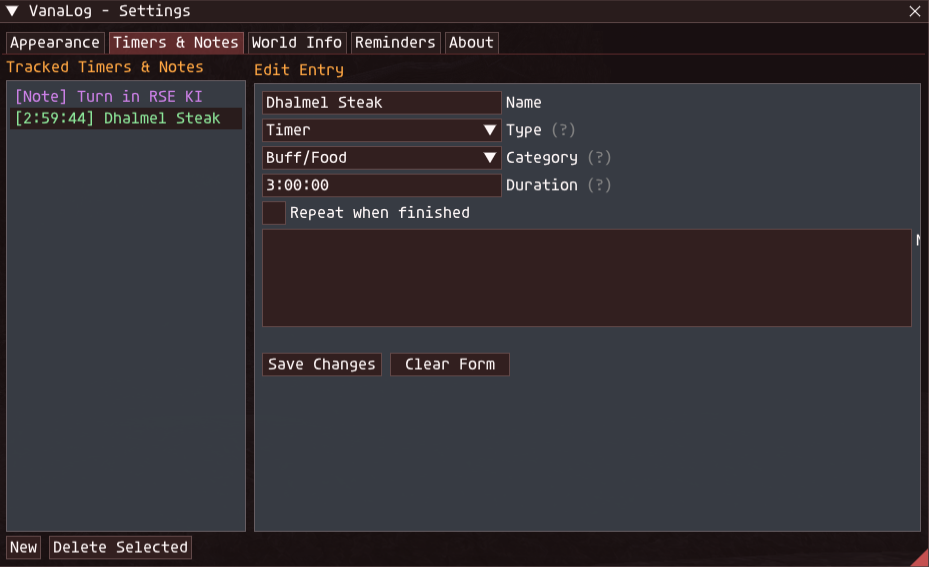
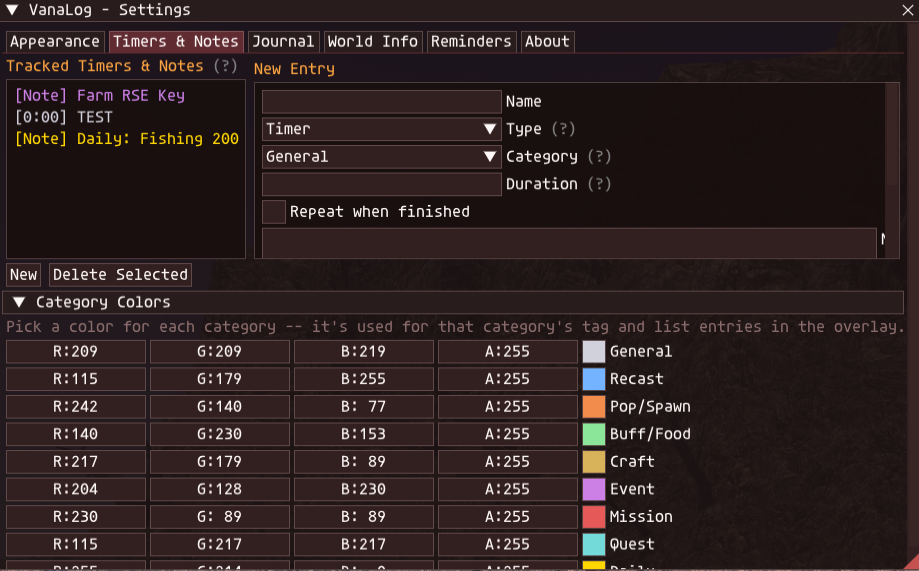
Update README screenshots for the v2.5 UI
- Replace the old 4-tab Settings and 4-tab Overlay screenshots with
  current ones: Settings gains a Journal tab and a split World Info
  pair (RSE/calendar, Guilds/Airships); Overlay now shows its 3 merged
  icon tabs (World, Notes, Timers & Reminders) instead of 4 text tabs.

diff --git a/README.md b/README.md
@@ -17,12 +17,16 @@ see [Credits](#credits) below.
 
 <table>
 <tr>
-<td><img src="screenshots/settings-appearance.png" width="420" alt="Appearance tab"><br><sub>Appearance -- theme presets, colors, alerts</sub></td>
-<td><img src="screenshots/settings-timers-notes.png" width="420" alt="Timers & Notes tab"><br><sub>Timers & Notes -- add/edit entries</sub></td>
+<td><img src="screenshots/settings-appearance.png" width="420" alt="Appearance tab"><br><sub>Appearance -- theme presets, colors, Low Profile Mode, Window Scale</sub></td>
+<td><img src="screenshots/settings-timers-notes.png" width="420" alt="Timers & Notes tab"><br><sub>Timers & Notes -- add/edit entries, category colors</sub></td>
 </tr>
 <tr>
-<td><img src="screenshots/settings-world-info.webp" width="420" alt="World Info tab"><br><sub>World Info -- clock, moon phase, RSE, day calendar</sub></td>
-<td><img src="screenshots/settings-reminders.webp" width="420" alt="Reminders tab"><br><sub>Reminders -- RSE, Day Change, Moon Phase alerts</sub></td>
+<td><img src="screenshots/settings-journal.png" width="420" alt="Journal tab"><br><sub>Journal -- dated log of notes added/completed, by week</sub></td>
+<td><img src="screenshots/settings-world-info.png" width="420" alt="World Info tab"><br><sub>World Info -- RSE, day/moon calendar</sub></td>
+</tr>
+<tr>
+<td><img src="screenshots/settings-world-info-guilds.webp" width="420" alt="World Info tab, Guilds and Airships"><br><sub>World Info -- crafting guild hours, airship/ferry schedules (individually followable)</sub></td>
+<td><img src="screenshots/settings-reminders.png" width="420" alt="Reminders tab"><br><sub>Reminders -- RSE, Day Change, Moon Phase, Guild Points, Fishing</sub></td>
 </tr>
 <tr>
 <td><img src="screenshots/settings-about.png" width="420" alt="About tab"><br><sub>About -- credits</sub></td>
@@ -34,12 +38,12 @@ see [Credits](#credits) below.
 
 <table>
 <tr>
-<td><img src="screenshots/overlay-timers.png" width="300" alt="Overlay Timers tab"><br><sub>Timers</sub></td>
+<td><img src="screenshots/overlay-world.png" width="300" alt="Overlay World tab"><br><sub>World -- only what you've chosen to Follow</sub></td>
 <td><img src="screenshots/overlay-notes.png" width="300" alt="Overlay Notes tab"><br><sub>Notes</sub></td>
 </tr>
 <tr>
-<td><img src="screenshots/overlay-world.png" width="300" alt="Overlay World tab"><br><sub>World</sub></td>
-<td><img src="screenshots/overlay-reminders.png" width="300" alt="Overlay Reminders tab"><br><sub>Reminders</sub></td>
+<td><img src="screenshots/overlay-timers-reminders.png" width="300" alt="Overlay Timers & Reminders tab"><br><sub>Timers & Reminders</sub></td>
+<td></td>
 </tr>
 </table>
 
